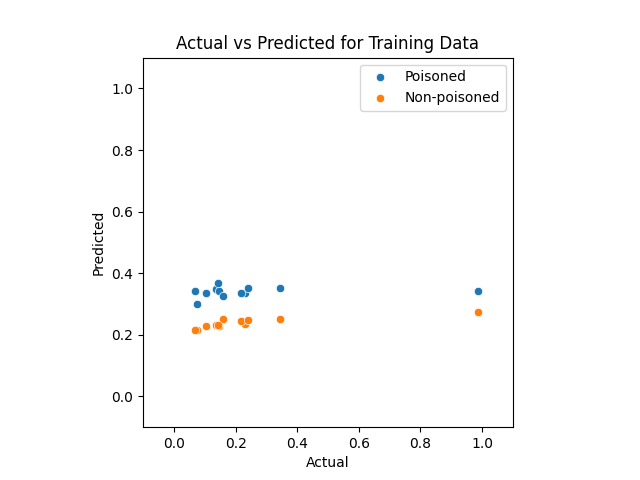
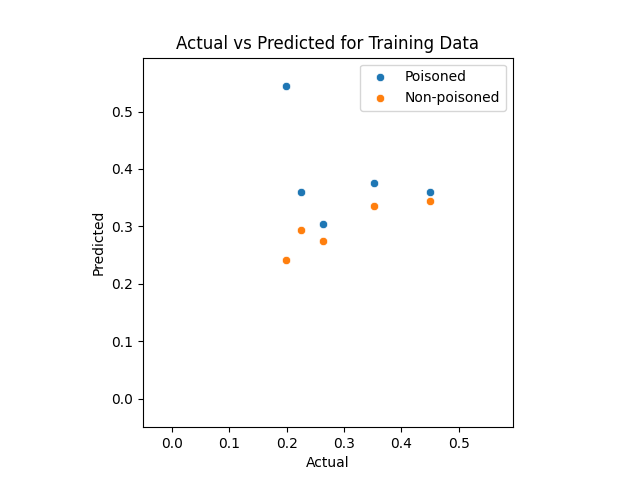
Final updates

diff --git a/main.py b/main.py
@@ -17,26 +17,30 @@ import pandas as pd
 
 model_parameters = {'dataset_name': 'smallvtest', 
                     'poison_rate': 20,
-                    'training_samples': 12,
-                    'seed': 0}
+                    'training_samples': 5,
+                    'seed': 2,
+                    'function': 'SLS'}
 
 
 # Solve using bilevel model
 bilevel_model, bilevel_instance, bilevel_solutions = solving_MINLP(dataset_name=model_parameters['dataset_name'],
                                                                    poison_rate=model_parameters['poison_rate'],
                                                                    training_samples=model_parameters['training_samples'],
-                                                                   seed=model_parameters['seed'])
+                                                                   seed=model_parameters['seed'],
+                                                                   function=model_parameters['function'])
 
 pridge_model, pridge_instance, pridge_solutions = ridge_regression(dataset_name=model_parameters['dataset_name'],
                                                                    training_samples=model_parameters['training_samples'],
                                                                    seed=model_parameters['seed'],
+                                                                   function=model_parameters['function'],
                                                                    poisoned=True,
                                                                    poison_solutions=bilevel_solutions,
                                                                    bilevel_instance=bilevel_instance)
 
 ridge_model, ridge_instance, ridge_solutions = ridge_regression(dataset_name=model_parameters['dataset_name'],
                                                                 training_samples=model_parameters['training_samples'],
-                                                                seed=model_parameters['seed'])
+                                                                seed=model_parameters['seed'],
+                                                                function=model_parameters['function'])
 
 comparison = ComparisonModel(bilevel_instance_data=bilevel_instance,
                              bilevel_model=bilevel_model,

diff --git a/algorithm/solution_approaches.py b/algorithm/solution_approaches.py
@@ -27,7 +27,8 @@ import matplotlib.pyplot as plt
 def solving_MINLP(dataset_name: str, 
                   poison_rate: int, 
                   training_samples: int,
-                  seed: int):
+                  seed: int,
+                  function = 'MSE'):
     """
     Algorithm for solving the MINLP bilevel model.
     """
@@ -40,7 +41,7 @@ def solving_MINLP(dataset_name: str,
     
     # Create model
     gurobi_model = gp.Model('Poisoning_Attack')
-    my_model = PoisonAttackModel(gurobi_model, instance_data)
+    my_model = PoisonAttackModel(gurobi_model, instance_data, function=function)
     m = my_model.model
     print('Model has been built')
 
@@ -78,6 +79,7 @@ def solving_MINLP(dataset_name: str,
 def ridge_regression(dataset_name: str,
                      training_samples: int, 
                      seed: int, 
+                     function='MSE',
                      initialized_solution=0,
                      poisoned=False,
                      poison_solutions=None,
@@ -99,7 +101,7 @@ def ridge_regression(dataset_name: str,
     
     # Create model
     gurobi_model = gp.Model('Regression_Model')
-    my_model = RegressionModel(gurobi_model, instance_data)
+    my_model = RegressionModel(gurobi_model, instance_data, function=function)
     m = my_model.model
     print('Model has been built')
 

diff --git a/solutions_handler/regression_comparison.py b/solutions_handler/regression_comparison.py
@@ -102,8 +102,11 @@ class ComparisonModel():
         figure = sns.scatterplot(data=self.bilevel_dataframe, x='actual_y_train', y='pred_bilevel_y_train', label='Poisoned')
         sns.scatterplot(data=self.ridge_dataframe, x='actual_y_train', y='pred_ridge_y_train', label='Non-poisoned')
         figure.set_aspect('equal', adjustable='box')
-        plt.xlim([-0.1,1.1])
-        plt.ylim([-0.1,1.1])
+        max_value = max([max(self.bilevel_dataframe['actual_y_train']), 
+                         max(self.bilevel_dataframe['pred_bilevel_y_train']), 
+                         max(self.ridge_dataframe['pred_ridge_y_train'])])
+        plt.xlim([-0.05, max_value + 0.05])
+        plt.ylim([-0.05,max_value + 0.05])
         plt.title('Actual vs Predicted for Training Data')
         plt.xlabel('Actual')
         plt.ylabel('Predicted')
